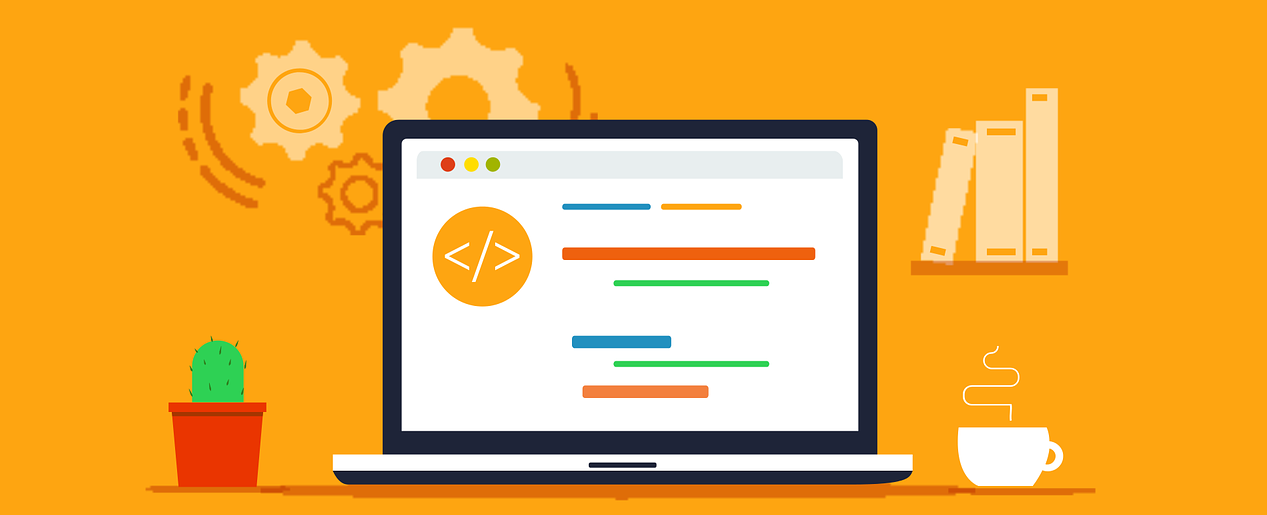
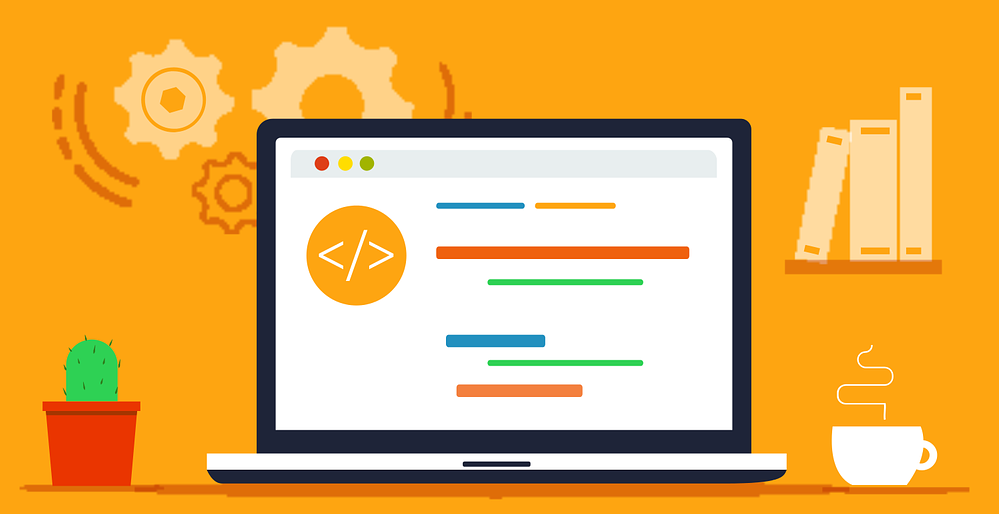
Make changes to homepage and projects

diff --git a/src/components/Home.js b/src/components/Home.js
@@ -1,14 +1,55 @@
 import orangeLaptop from "../assets/images/orange-laptop.png";
 import { MdEmail } from "react-icons/md";
 import { FaGithub } from "react-icons/fa";
+import imageOfMe from "../assets/images/Naima_at_work03.jpg";
 
 const Home = () => {
   return (
     <>
-      <div className="picture-orange">
-        <div className="heading">
-          <h1>Hi I'm Naima, Front-end developer & UX/UI Designer</h1>
-          <img src={orangeLaptop} alt="Laptop" />
+      <div className="row-box">
+        <div className="laptop">
+          <h1>I'm Naima, Frontend developer & UX/UI Designer</h1>
+          <img src={orangeLaptop} alt="orange laptop" />
+        </div>
+        <div className="stack">
+          <svg
+            width="500"
+            height="500"
+            xmlns="http://www.w3.org/2000/svg"
+            id="blobSvg"
+          >
+            <defs>
+              <linearGradient id="gradient" x1="0%" y1="0%" x2="0%" y2="100%">
+                <stop
+                  offset="0%"
+                  style={{ stopColor: "rgb(255, 95, 109)" }}
+                ></stop>
+                <stop
+                  offset="100%"
+                  style={{ stopColor: "rgb(255, 165, 0)" }}
+                ></stop>
+              </linearGradient>
+            </defs>
+            <path fill="url(#gradient)">
+              <animate
+                attributeName="d"
+                dur="10000ms"
+                repeatCount="indefinite"
+                values="M409,310Q393,370,339.5,411.5Q286,453,217.5,439.5Q149,426,96,375.5Q43,325,83.5,264.5Q124,204,143,151Q162,98,221.5,85Q281,72,317.5,117.5Q354,163,389.5,206.5Q425,250,409,310Z;
+
+                M414,295Q357,340,317,372Q277,404,208,423Q139,442,80.5,387.5Q22,333,47,259Q72,185,117.5,142.5Q163,100,221.5,90Q280,80,341.5,101Q403,122,437,186Q471,250,414,295Z;
+                
+                M406.5,325.5Q430,401,358,429Q286,457,234,413Q182,369,123,343.5Q64,318,93,260.5Q122,203,139,145Q156,87,215,101.5Q274,116,317.5,136.5Q361,157,372,203.5Q383,250,406.5,325.5Z;
+                
+                M449,327.5Q435,405,364,450Q293,495,219,463.5Q145,432,116,370.5Q87,309,85,249Q83,189,123,144.5Q163,100,221.5,90Q280,80,343.5,99Q407,118,435,184Q463,250,449,327.5Z;
+                
+                M401.5,311.5Q397,373,344.5,431Q292,489,211,473Q130,457,122.5,378Q115,299,122,252.5Q129,206,131,126.5Q133,47,208.5,51Q284,55,334,96Q384,137,395,193.5Q406,250,401.5,311.5Z;
+                
+                M409,310Q393,370,339.5,411.5Q286,453,217.5,439.5Q149,426,96,375.5Q43,325,83.5,264.5Q124,204,143,151Q162,98,221.5,85Q281,72,317.5,117.5Q354,163,389.5,206.5Q425,250,409,310Z;"
+              ></animate>
+            </path>
+          </svg>
+          <img id="img-move" src={imageOfMe} alt="picture of Naima" />
         </div>
       </div>
 
@@ -24,6 +65,26 @@ const Home = () => {
           <FaGithub id="gitHub" />
         </a>
       </div>
+    </>
+  );
+};
+
+const Home2 = () => {
+  return (
+    <>
+      <section>
+        <div className="picture-orange">
+          <div className="heading">
+            <img src={orangeLaptop} alt="Laptop" />
+            <h1>Hi I'm Naima, Front-end developer & UX/UI Designer</h1>
+            <div className="blob-box">
+              <div className="blob">
+                <img id="image-me" src={imageOfMe} alt="Naima Malik" />
+              </div>
+            </div>
+          </div>
+        </div>
+      </section>
     </>
   );
 };

diff --git a/src/App.css b/src/App.css
@@ -4,27 +4,61 @@
   box-sizing: border-box;
 }
 
-/* Homepage */
-.heading {
-  font-family: sans-serif;
+/*HOME*/
+.row-box {
   display: flex;
+  justify-content: center;
+  background-color: #41345d;
 }
-.heading h1 {
+
+.laptop {
+  align-self: center;
+}
+.laptop > img,
+.laptop > h1 {
+  max-width: 100%;
+  margin-left: auto;
+  margin-right: auto;
   font-size: 1.5rem;
   background: rgba(0, 0, 0, 0.2);
   color: #fff;
   padding: 1rem;
-  align-self: center;
+  text-align: center;
 }
 
-.picture-orange {
-  background-color: #ffa500;
+.stack {
+  position: relative;
+  display: inline-flex;
+  justify-content: center;
+  align-items: center;
 }
 
-.picture-orange img {
-  width: 50vw;
+.stack > .stack-box,
+.stack > img {
+  position: absolute;
+  width: 50%;
+  border-radius: 50%;
 }
 
+#img-move {
+  animation: memove 5s infinite;
+  animation-timing-function: ease;
+  opacity: 0.8;
+}
+
+@keyframes memove {
+  0% {
+    transform: translate(0);
+  }
+  50% {
+    transform: translate(3%);
+  }
+  100% {
+    transform: translate(0);
+  }
+}
+
+/* Navbar */
 .navbar-expand-lg .navbar-collapse {
   justify-content: flex-end;
 }
@@ -33,18 +67,13 @@
   align-items: center;
 }
 
-#image-me {
-  width: 5vw;
-  border-radius: 1rem;
-  margin-right: 1rem;
-}
-
 .icons {
   display: flex;
   justify-content: center;
   margin-top: 10rem;
 }
 
+/* Contact */
 #email {
   color: #000000;
   margin-right: 1rem;
@@ -65,21 +94,24 @@
 }
 
 /* About me */
-.about-section {
-  display: flex;
-  max-width: 50rem;
-  margin-top: 4rem;
-  margin-bottom: 4rem;
-  margin-left: auto;
-  margin-right: auto;
-}
 
 .me img {
-  border-radius: 2rem;
+  border-radius: 50%;
   height: 40vh;
+  opacity: 0.9;
 }
 
 /* Skill cards */
+.projects {
+  background-color: #41345d;
+}
+
+.projects > h1,
+.projects > p {
+  color: #fff;
+  background: rgba(0, 0, 0, 0.2);
+}
+
 .card-alignment {
   display: flex;
   justify-content: space-evenly;
@@ -188,7 +220,7 @@ progress::-webkit-progress-bar {
 }
 .carousel-control-next-icon,
 .carousel-control-prev-icon {
-  background-color: purple;
+  background-color: #41345d;
 }
 
 .carousel-indicators {
@@ -243,8 +275,9 @@ progress::-webkit-progress-bar {
 }
 
 @media (max-width: 768px) {
-  .heading h1 {
-    font-size: 0.9rem;
+  .row-box {
+    flex-direction: column;
+    align-items: center;
   }
   .about-me {
     flex-direction: column;
@@ -252,10 +285,4 @@ progress::-webkit-progress-bar {
 }
 
 @media (max-width: 600px) {
-  .heading h1 {
-    font-size: 0.9rem;
-  }
-  #image-me {
-    width: 15vw;
-  }
 }

diff --git a/src/components/Projects.js b/src/components/Projects.js
@@ -9,11 +9,11 @@ const Projects = () => {
     <>
       <div className="container">
         <div className="card">
-          <div className="card-body">
+          <div className="card-body projects">
             <h1 className="text-center">Projects</h1>
             <p className="card-text" style={{ textAlign: "center" }}>
-              Below are the web applications I created using HTML, CSS, React
-              and Bootstrap.
+              Below are projects I have completed using HTML, CSS, React and
+              Bootstrap.
             </p>
           </div>
         </div>

diff --git a/src/components/Navigation.js b/src/components/Navigation.js
@@ -1,5 +1,4 @@
 import { Link } from "react-router-dom";
-import imageOfMe from "../assets/images/Naima_at_work03.jpg";
 
 const Navigation = () => {
   return (
@@ -7,7 +6,6 @@ const Navigation = () => {
       <nav className="navbar navbar-expand-lg navbar-light bg-light">
         <div className="container-fluid">
           <Link className="navbar-brand" to="/">
-            <img id="image-me" src={imageOfMe} alt="Naima Malik" />
             Naima Malik Portfolio
           </Link>
           <button

diff --git a/src/components/About.js b/src/components/About.js
@@ -1,4 +1,4 @@
-import purpleMe from "../assets/images/purple-me1.jpg";
+import purpleMe from "../assets/images/profile-pic.png";
 import { GiSkills } from "react-icons/gi";
 
 import Frontend from "./Frontend";
